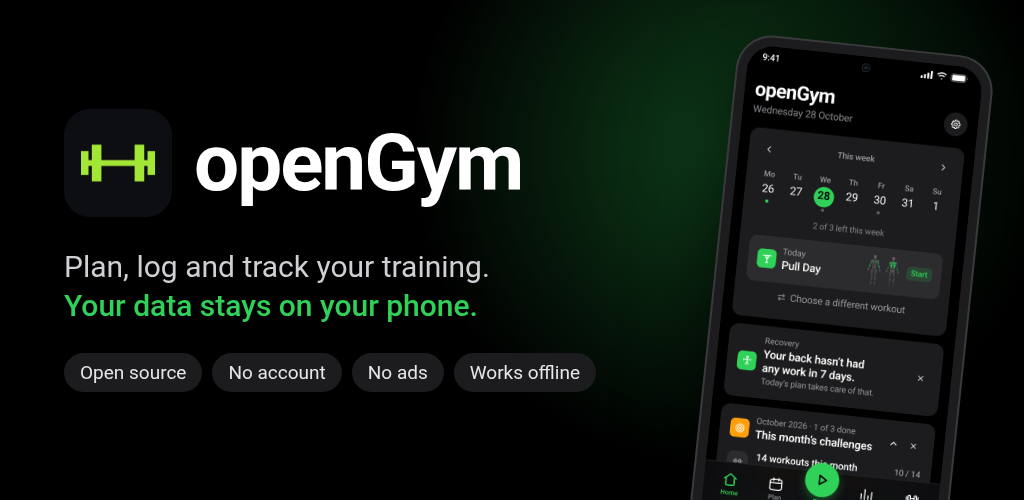
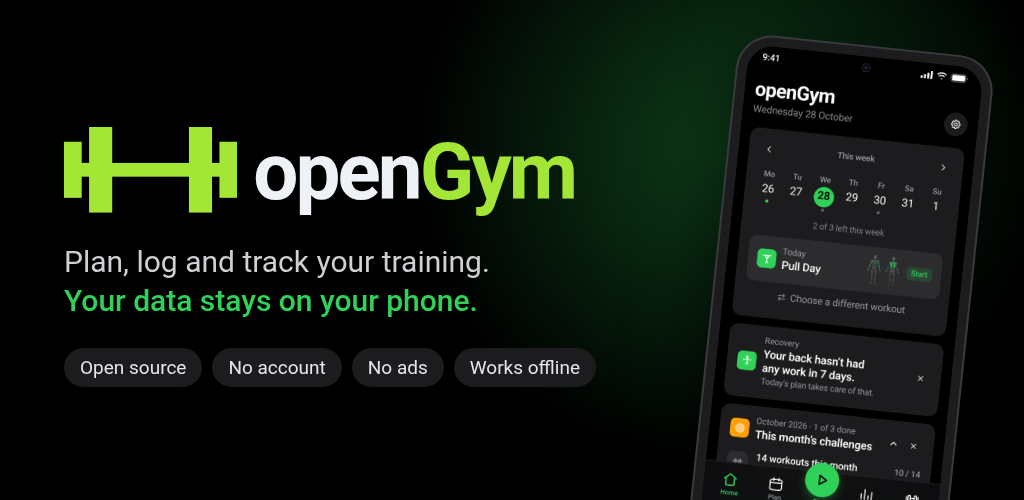
Play feature graphic: official lockup
"openGym" was all white next to the app icon tile. Now the official
lockup: the mark's five rectangles (geometry from opengym-mark.svg),
"open" #EEF1F6 and "Gym" #A3E635, 700, -0.036em, mark 1.07x the type,
gap 0.2x. Tagline, chips, glow and phone are unchanged (same Home shot
from the plain build, no exercise media). The source now lives in
scripts/store; the pipeline reproduces the previous PNG pixel for pixel
with the old markup.

Changed region(s): [[0.0625, 0.24, 0.5625, 0.45], [0.0625, 0.69, 0.5938, 0.81], [0.0625, 0.48, 0.4688, 0.66]]

diff --git a/scripts/store/feature-graphic.html b/scripts/store/feature-graphic.html
@@ -1,0 +1,38 @@
+<!doctype html><html><head><meta charset="utf-8"><style>
+/* Google Play feature graphic, 1024 x 500. Rendered by feature-graphic.mjs, which swaps SHOT for a
+   phone screenshot from the plain build (no exercise media, ever). The logo is the official lockup
+   (assets/logo/opengym-logo-dark.svg): the mark's five rectangles copied from opengym-mark.svg,
+   1.07x the type, 0.2x away from it, its centre 0.36x above the baseline; "open" #EEF1F6, "Gym"
+   #A3E635, 700, -0.036em. Never redraw it, never tint it with the accent. */
+html,body{margin:0;width:1024px;height:500px;overflow:hidden;background:#000}
+body{font-family:Roboto,sans-serif;color:#fff;display:flex;align-items:center;position:relative}
+.glow{position:absolute;right:-60px;top:-200px;width:700px;height:700px;border-radius:50%;background:radial-gradient(circle,rgba(48,209,88,.30),rgba(48,209,88,0) 65%)}
+.left{padding-left:64px;position:relative;z-index:1}
+.brand{display:flex;align-items:baseline;font-size:80px;font-weight:700;letter-spacing:-0.036em;line-height:1}
+.brand svg{height:1.07em;width:auto;margin-right:0.2em;position:relative;top:0.175em;flex:none}
+h1{font:inherit;letter-spacing:inherit;margin:0}
+h1 .o{color:#eef1f6} h1 .g{color:#a3e635}
+p{font-size:30px;line-height:1.3;color:#cfcfd4;margin:30px 0 0;font-weight:400}
+p b{color:#30d158;font-weight:500}
+.chips{display:flex;gap:10px;margin-top:28px}
+.chips span{font-size:19px;padding:8px 16px;border-radius:999px;background:#1c1c1e;color:#e5e5ea}
+.phone{position:absolute;right:56px;top:46px;width:236px;background:#1c1c1e;border-radius:34px;padding:9px;
+  box-shadow:0 0 0 2px #3a3a3c,0 30px 80px rgba(0,0,0,.7);transform:rotate(6deg)}
+.phone div{height:492px;overflow:hidden;border-radius:26px}
+.phone img{display:block;width:100%}
+/* Punch-hole camera, centred over the Android status bar of the screenshot. */
+.phone .punch{position:absolute;top:16px;left:50%;margin-left:-4.5px;width:9px;height:9px;border-radius:50%;
+  background:radial-gradient(circle,#1b2230 0 22%,#06080b 30% 100%);box-shadow:inset 0 0 0 1px rgba(255,255,255,.12)}
+</style></head><body><div class="glow"></div><div class="left">
+<div class="brand"><svg xmlns="http://www.w3.org/2000/svg" viewBox="80 169 352 174" aria-hidden="true"><g fill="#a3e635">
+  <rect x="80"  y="242" width="352" height="28"/>
+  <rect x="80"  y="199" width="36"  height="114"/>
+  <rect x="131" y="169" width="47"  height="174"/>
+  <rect x="334" y="169" width="47"  height="174"/>
+  <rect x="396" y="199" width="36"  height="114"/>
+</g></svg><h1 aria-label="openGym"><span class="o">open</span><span class="g">Gym</span></h1></div>
+<p>Plan, log and track your training.<br><b>Your data stays on your phone.</b></p>
+<div class="chips"><span>Open source</span><span>No account</span><span>No ads</span><span>Works offline</span></div>
+</div>
+<div class="phone"><div><img src="SHOT"></div><span class="punch"></span></div>
+</body></html>

diff --git a/scripts/README.md b/scripts/README.md
@@ -22,6 +22,7 @@ want. Run them from the repository root with Node 22 unless noted.
 | Script | When |
 |---|---|
 | `build-hevy-id-map.mjs` | Regenerates `frontend/src/lib/hevy-id-map.js` after Hevy adds templates (needs a Hevy API key) |
+| `store/feature-graphic.mjs` | Renders the Google Play feature graphic (`fastlane/.../featureGraphic.png`) from `store/feature-graphic.html` and a Home screenshot of the plain build (headless Chrome, Roboto) |
 | `de-name-rules.mjs` | The German exercise-name rules. `frontend/src/lib/exercise-names.test.js` holds every German name to them |
 | `catalogue/migration-check.mjs` | Before a catalogue change ships: compares old and new catalogue on copies of real profiles |
 
